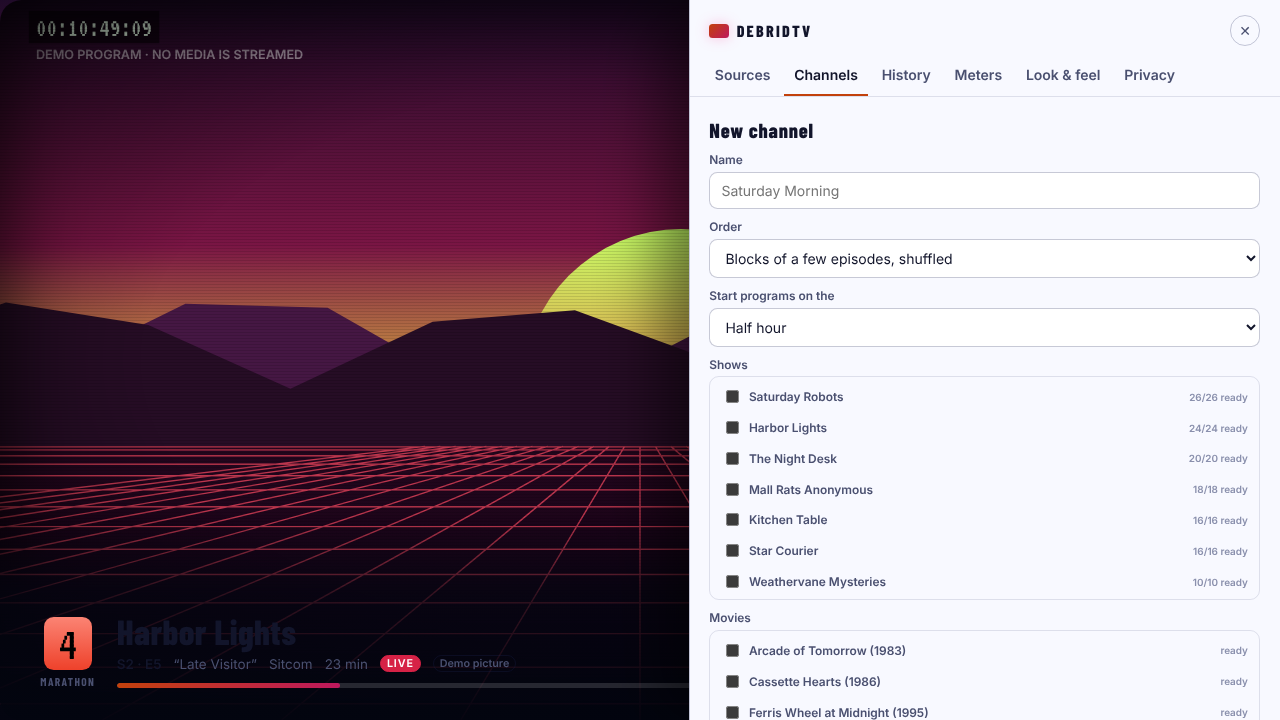
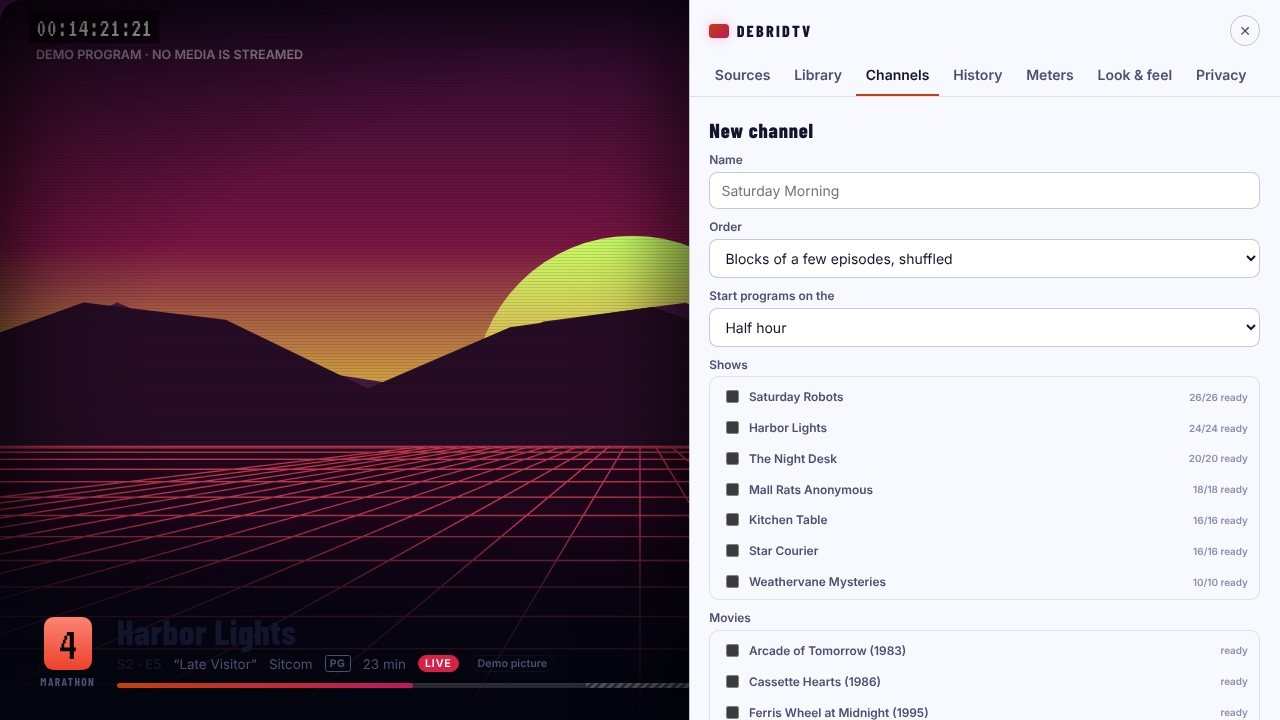
Parity register v0.3: audit round 2 (28/28 on shared + C), re-score and next gaps
Audit media now has a chaptered 8-minute episode so mid-program breaks are
exercised (A17), plus A28 for the picture-shape key.

Claude-Session: https://claude.ai/code/session_01JC4uxRxAjgvmehGqkwUNsi

diff --git a/docs/parity/nostalgiatv.md b/docs/parity/nostalgiatv.md
@@ -1,6 +1,6 @@
 # NostalgiaTV parity register (versioned, per surface)
 
-Register version: 0.2 | NostalgiaTV sources retrieved: 2026-10-10 | DebridTV column audited: 2026-10-11 against shared branch `d68292c` and a trial merge with branches `project-thread-y7lgyq` and `project-thread-uy3380` | Handoff basis: DEBRIDTV_RESEARCH_HANDOFF_2026-10-10.md sections 2.1, 3, 12.
+Register version: 0.3 | NostalgiaTV sources retrieved: 2026-10-10 | DebridTV column audited: 2026-10-11 (round 2) against shared `cffbc0d` merged with C's `project-thread-446sg8` `4a73787` | Handoff basis: DEBRIDTV_RESEARCH_HANDOFF_2026-10-10.md sections 2.1, 3, 12.
 
 NostalgiaTV's Play listing, GitBook user guide and Docker companion README describe different capability sets and different versions. This register is NOT one universal spec. Each cell is evidence about one surface at one version/date. No cell was verified by running the product.
 
@@ -11,7 +11,7 @@ NostalgiaTV's Play listing, GitBook user guide and Docker companion README descr
 - No feature is inferred from screenshots or marketing adjectives; those are P. Short quotes only.
 - Columns: **TV** = Android TV app; **Mobile** = Android phone/tablet app; **Docker** = `purestream711/nostalgiatv-server` web/companion; **Other** = Fire TV/Chromecast/iOS etc., only if documented.
 - **DebridTV status** is scored only from behaviour that a test or the app audit exercised, never from code or a guide existing:
-  - **V** verified: an audit check (`[A01]`…, see [App audit](#app-audit-2026-10-11)) or a named test passes.
+  - **V** verified: an audit check (`[A01]`…, see [App audit](#app-audit)) or a named test passes.
   - **P/V** partly there, and the part that exists is verified. **P** partly there, evidence is a unit test or code only.
   - **C** core only: the clock or library supports it and is unit-tested, but the app doesn't use it.
   - **G** gate: a closed permission gate exists; nothing is built behind it.
@@ -51,39 +51,39 @@ Order follows handoff N-01..N-28; suffix letters are splits; N-29+ are additions
 |---|---|---|---|---|---|---|
 | N-01a | Plex/Jellyfin/Emby servers, multiple at once | D [N01, 2026-09-30; N10 v0.9.12 2026-07-22 says full Jellyfin/Emby] | D [same] | D [N02, 0.10.22] | ? | — not started. Sources are Real-Debrid, TorBox and local folders instead (different source model, by project scope). |
 | N-01b | Local device folders, no server needed | D [N01; N10 v0.9.12] | D [same] | X [N02: local-only libraries stay on Android] / P [N02 "mirror matching"] | ? | **V** local folders become channels after a header scan [A13]. |
-| N-01c | Local folder metadata (Kodi nfo, OMDb, artwork) | D [N10 v0.9.12 OMDb; N01 what's-new Kodi nfo] | D [same] | ? | ? | **P** filename parsing only (`test/parse.test.ts`); no nfo, OMDb or artwork. |
+| N-01c | Local folder metadata (Kodi nfo, OMDb, artwork) | D [N10 v0.9.12 OMDb; N01 what's-new Kodi nfo] | D [same] | ? | ? | **P/V** Kodi movie/episode/tvshow `.nfo` read, nearest `tvshow.nfo` wins, hand-set ratings override (N-01c tests in `test/metadata.test.ts`). No OMDb or artwork (online lookups wait on Zachary). |
 | N-01d | Cross-server dedup (TMDB/IMDb/TVDB, preference rank) | ? | ? | D [N02, N14; 0.10.22] | ? | **P/V** same file in two places airs once [A15]; keyed on parsed name + runtime, not TMDB/IMDb ids; rank local > playable > TorBox > RD (`app/lineup.ts` dedupe). |
 | N-02a | Pre-built presets | D [N01: "85+" ; N11: "70+ Standard Channels", Pro] | D [same] | ? | ? | **P/V** 7 automatic channel rules (Half Hour, Prime Hour, Marathon, Feature, Quarter Hour, decade cinema, one per show) [A01 demo, A14 local]; NTV claims 70-85+ presets. |
 | N-02b | Custom channels | D [N04; N01] | D [N04 steps use mobile app] | D [N02 Channels tab] | ? | **V** builder with show/movie picks, 8 orderings, slot choice; goes on air at #50+ [A09, A18]. |
-| N-03 | Channel number, name, logo | D [N04; N01 renumber/hide/favorite] | D [N04] | P [N02 lists Channels tab, no detail] | ? | **P/V** number + name on bug and OSD [A02]; numbers stable across restart [A11] and hiding [A19]. No logos, renumbering or favorites. |
-| N-04 | Selection by collection/playlist/genre/decade/title | D [N04: Collection, Genre, Decade, Plex Playlist, search] | D [N04] | D [N02: also studios, labels, hand-picked] | ? | **P/V** pick by title [A18]; automatic decade channels [A01]. No genre, collection or playlist (no metadata source). |
-| N-05 | Specials, watched-only, duplicate controls | D [N04; watched-only worded as Plex watched] | D [N04] | ? | ? | **P** duplicates removed automatically [A15]; no specials or watched-only switches. |
-| N-06a | Kid channel flag; R-rated after-hours restriction | D [N04] | D [N04] | D [N02 mature/kid filtering] | ? | — not started. |
+| N-03 | Channel number, name, logo | D [N04; N01 renumber/hide/favorite] | D [N04] | P [N02 lists Channels tab, no detail] | ? | **V** number + name on bug and OSD [A02]; numbers stable across restart, hiding and a channel returning [A11, A19, `library.test` N-03]; rename, renumber (a taken number swaps), favorite and logo stored and editable (`server.test` N-03/N-16, `test/ui` channel editor). |
+| N-04 | Selection by collection/playlist/genre/decade/title | D [N04: Collection, Genre, Decade, Plex Playlist, search] | D [N04] | D [N02: also studios, labels, hand-picked] | ? | **V** network, genre and collection channels from metadata with thresholds (`metadata.test` N-04); decade channels [A01]; pick by title [A18]. No Plex playlists (no Plex source). |
+| N-05 | Specials, watched-only, duplicate controls | D [N04; watched-only worded as Plex watched] | D [N04] | ? | ? | **P/V** duplicates removed [A15, D3]; season-0 specials are a per-channel toggle (`lineup.ts`, editor). No watched-only option. |
+| N-06a | Kid channel flag; R-rated after-hours restriction | D [N04] | D [N04] | D [N02 mature/kid filtering] | ? | **V** kid channels air only ≤PG, unrated stays off; restricted hours keep higher ratings out and nothing straddles the edge (`dayparts.test` N-06a ×2, `server.test` N-06a). |
 | N-06b | PIN-locked restricted channels with scrambling visuals | D [N10 v0.9.12; Pro? ] | D [same] | D [N10 "Docker/web support"] | ? | — not started. |
 | N-07 | Content groups, order/shuffle, EPG description | D [N06; web remote on desktop browser] | P [N06 silent on mobile/TV creation] | D [N02 Groups tab; N10 Groups browse] | ? | — not started. |
 | N-08 | Ordering modes | D 8 modes [N03] | D 8 modes [N03] | D 4 modes only [N02] | ? | **V** all 8 modes unit-tested (F2 in `test/clock.test.ts`) and offered in the builder [A09]. Same intent as NTV, not verified identical. |
-| N-09a | Weights (0-100 sliders), time slots w/ weekday recurrence, restricted hours | D [N13, web UI advanced tab] | P [N13 is web UI] | D [N02 weights, time slots, restricted hours] | ? | — not started (programs align to 15/30/60-min slots, but no weekday time slots, weights or restricted hours). |
-| N-09b | Exclusions | P [N02 lists exclusions for Docker] | ? | D [N02] | ? | **P (branch)** per-file exclude, reversible: `test/server.test.ts` "excluding a file…" on `project-thread-y7lgyq`, not yet on the shared branch. No show/genre exclusions. |
+| N-09a | Weights (0-100 sliders), time slots w/ weekday recurrence, restricted hours | D [N13, web UI advanced tab] | P [N13 is web UI] | D [N02 weights, time slots, restricted hours] | ? | **P/V** weekday time slots that resume next week where they stopped, and restricted hours (`dayparts.test` N-09a, N-06a), set in the channel editor. No weights. |
+| N-09b | Exclusions | P [N02 lists exclusions for Docker] | ? | D [N02] | ? | **P/V** per-file exclude, reversible (`server.test`); excluded files never air (`library.test` B5/E6). No show/genre exclusions. |
 | N-09c | Premieres (recent additions pinned) | D [N13 premiere config] | P | D [N02] | ? | — not started. |
 | N-09d | Recently-scheduled tracking / balance by episode count or duration | D [N13 balance; N02 recent tracking] | P | D [N02] | ? | **P** round-robin gives every show a turn before any repeats (F2 test); no recently-aired tracking. |
 | N-09e | Marathons | D [N04: 3% per check, 4 hours; N13: toggle raises probability] (conflicting wording) | D | D [N02 marathon insertion] | ? | **P/V** a Marathon channel (#4) with tested run lengths (F2) [A01]; no random marathons inside other channels. |
-| N-10 | Per-channel schedule regeneration | D [N10 v0.9.12; N04 Refresh Schedule] | D [same] | D [N02] | ? | **P** core `revise()` keeps the current airing (test C7); the app re-syncs channels when the library changes (`Lineup.sync`, untested in app). No per-channel "refresh schedule" action. |
+| N-10 | Per-channel schedule regeneration | D [N10 v0.9.12; N04 Refresh Schedule] | D [same] | D [N02] | ? | **P/V** schedule changes wait for the current airing to end (C7; `metadata.test` N-06a/N-09a). No per-channel "refresh schedule" action. |
 | N-11a | Built-in themes | D 9 [N01] / 5 [N09] / Modern=Pro [N10] | D [same] | D 8 [N02] | ? | **V** 3 built-ins: Midnight, Cable '92, Daylight [A07]. |
 | N-11b | Custom colors/fonts, theme import/export | D [N09 clone, edit, import/export] | D [N09] | D [N02 browser-editable] | ? | — not started. |
 | N-12 | CRT effects, bezels, tuning sounds/screens | D [N01; N05 Classic CRT bezel option] | D [N10 v0.9.12 CRT/4:3 on mobile] | D CRT/bezel [N02]; tuning sounds ? | ? | **P/V** CRT scanlines, static between channels and tuner sounds are settings [A08]; no bezel. Visual effect checked by screenshot only. |
 | N-13 | Number-key tuning, guide navigation | D [N01 "type the channel number"] | P [no number-key claim; N10 D-pad/controller] | ? (web /watch) | ? | **V** number entry [A02], up/down, last channel [A03], guide arrows [A05, A06]; fast surfing requests media only where it lands [A25] (cost measured in EXP-002/006). |
-| N-14 | Hover tuning, startup choices, D-pad mapping | D [N05: auto-change channel, start on On Demand, swap D-pad] | D [N05; N10 mobile D-pad] | ? | ? | **P/V** starts on the last channel [A10]. No hover-tune, startup choice or D-pad remap. |
-| N-15 | Guide display options (scroll, time indicator, dim ended, 24h clock, idle action) | D [N05] | D [N05] | ? | ? | **P/V** 12 h grid, now line, 24-hour clock option [A05, A06, A08]; past cells dimmed (`guide.js`). Branch `uy3380` adds aired-part shading, picture-in-guide, padding tails (screenshots in project files; not merged). No idle action. |
-| N-16 | Logo overlay mode/position/opacity, rating at start | D [N05] | D [N05] | ? | ? | **P/V** channel bug (number + name) [A02]; no logo, position/opacity or rating card. |
-| N-17a | Force 4:3 / widescreen zoom | D [N05; N01 what's-new 16:9/4:3] | D [N10 mobile 4:3] | ? | ? | — not started. |
+| N-14 | Hover tuning, startup choices, D-pad mapping | D [N05: auto-change channel, start on On Demand, swap D-pad] | D [N05; N10 mobile D-pad] | ? | ? | **P/V** start on last channel [A10] or the guide, and guide idle action (`test/ui` "starts on the guide and closes itself when idle"). No hover-tune or D-pad remap. |
+| N-15 | Guide display options (scroll, time indicator, dim ended, 24h clock, idle action) | D [N05] | D [N05] | ? | ? | **P/V** 12 h grid, now line, 24-hour clock [A05, A06, A08]; aired-part shading, picture-in-guide, padding tails, idle action (`test/ui` guide). No scroll-speed option. |
+| N-16 | Logo overlay mode/position/opacity, rating at start | D [N05] | D [N05] | ? | ? | **P/V** channel bug [A02]; badge, wordmark or inline-image logos (`server.test` N-03/N-16); rating shown in the banner (`ui.js`). No logo position/opacity or rating card at program start. |
+| N-17a | Force 4:3 / widescreen zoom | D [N05; N01 what's-new 16:9/4:3] | D [N10 mobile 4:3] | ? | ? | **V** Z cycles auto, fill, 4:3 and zoom [A28]. |
 | N-17b | Auto sign-off (up to 8 h), guide idle | D [N05] | D [N05] | ? | ? | — not started. |
-| N-18a | Subtitle and audio-track / language options | D [N05] | D [N05] | D [N02 watch UI track selection] | ? | — not started (compat mode takes the first audio track; no subtitles). |
+| N-18a | Subtitle and audio-track / language options | D [N05] | D [N05] | D [N02 watch UI track selection] | ? | **C** the probe reads the track list with languages and flags (`probe.test` N-18a); no audio or subtitle choice in the player yet (A in progress). |
 | N-18b | ExoPlayer vs libmpv, live switch | D [N05; N10 v0.9.12 live switching] | D [same] | X [engine is client-side; ? not stated] | ? | **P (different design)** browser player with one direct → compatibility fallback, never a loop [A20, A24]; no engine choice. |
 | N-19 | Direct play / transcode cap, DTS transcode, passthrough, delivery badges | D [N05; N10 v0.9.12; N01 4K/HDR/DV] | D [same] | ? | ? | **P/V** direct play [A20]; ffmpeg compatibility mode for undecodable audio [A24], labelled in the banner. No transcode cap or passthrough. |
-| N-20 | Playback reporting; 90% watched threshold | D [N05] | D [N05] | ? | ? | **V** seen file time is reported [A22]; watched flips between 85% and 92% seen and shows in the guide [A23]; D8 unit test. Branch `y7lgyq` adds mark/forget/export (tested, not merged). |
-| N-21 | Commercials between/inside programs, bumpers, idents | D [N01; Pro per N11] | D [same] | D [N02, N14] | ? | **P (by design)** no commercials or bumpers: they would fetch media nobody asked for. Break cards are drawn locally (`cards.js`); branch `uy3380` adds Prevue-style rotating breaks, 0 provider calls (not merged). |
+| N-20 | Playback reporting; 90% watched threshold | D [N05] | D [N05] | ? | ? | **V** seen file time is reported [A22]; watched flips between 85% and 92% [A23]; D8; mark/forget/export history (`server.test` history). |
+| N-21 | Commercials between/inside programs, bumpers, idents | D [N01; Pro per N11] | D [same] | D [N02, N14] | ? | **P/V (by design)** no commercials or bumpers (they'd fetch media nobody asked for). Long breaks rotate up next / later / on now elsewhere from the local clock, 0 media requests (`test/ui` station breaks). |
 | N-22a | Break groups/sequences, padding, per-channel pools | D [N01; N02] | D [N01] | D [N02] | ? | **P/V** slot padding becomes a station break [A16]; no break groups or per-channel pools. |
-| N-22b | Mid-break: halfway / chapters | D [N01 "chapter"; N10] | D [same] | D [N02 HALFWAY, CHAPTERS] | ? | **C, app FAIL** clock supports mid-breaks at given points (test C3), but no app channel turns them on and the probe reads no chapters [A17 fails]. |
+| N-22b | Mid-break: halfway / chapters | D [N01 "chapter"; N10] | D [same] | D [N02 HALFWAY, CHAPTERS] | ? | **V** chapters become mid-program breaks where they fit the slot [A17; `server.test` N-22b; MKV and MP4 chapters]. No halfway mode for files without chapters (by design: breaks aren't guessed). |
 | N-22c | Mid-break: silence detection | X [N14: server-side only] | X [same] | D [N02 ffmpeg, Docker only] | ? | — not started. |
 | N-23a | Music/radio ("Tune Choice") | D [N01; N10 new stations] | D [same] | D [N02 + visualizer] | ? | — not started. |
 | N-23b | Weather channels (WeatherStar 4000, Storm) | D [N01 Storm; N10 EAS crawls] | D [same] | D [N02; Storm falls back to offline simulation] | ? | — not started. |
@@ -92,13 +92,13 @@ Order follows handoff N-01..N-28; suffix letters are splits; N-29+ are additions
 | N-24b | M3U / XMLTV / HDHomeRun imports | D [N01; N10 editable sources] | D [same] | D [N02 External Sources, browser refresh] | ? | — not started. |
 | N-24c | Live stream channels from URL (.m3u8) | D [N04] | D [N04] | D [N02] | ? | — not started. |
 | N-25 | Cloud schedule/config sync via user-owned Firebase | D schedule only [N08]; config sync Pro [N10 v0.5.x, N11] | D [same] | ? | ? | — not started. Any cloud path sits behind the closed `cloud-relay` gate. |
-| N-26a | Full-snapshot vs lineup-only config export/import | D [N07] | D [N07] | D [N02 per-profile or whole server; tokens excluded] | ? | **P (branch)** settings export carries choices, never keys (F4 in `test/server.test.ts`, `y7lgyq`, not merged). Lineup-only vs full not distinguished yet. |
+| N-26a | Full-snapshot vs lineup-only config export/import | D [N07] | D [N07] | D [N02 per-profile or whole server; tokens excluded] | ? | **P/V** settings export carries choices, never keys; lineup round-trips without stealing numbers in use (F4 in `server.test`, `library.test`). No lineup-only vs full choice. |
 | N-26b | Local pairing by 4-digit PIN (same Wi-Fi) | D [N07] | D [N07] | ? | ? | — not started (needs the `sharing` gate). |
 | N-26c | Primary/follower (cloud sync) | D [N07] | D [N07] | ? | ? | — not started. |
 | N-26d | Docker pairing code onboarding | D [N10 v0.9.12] | D [same] | D [same] | ? | — not applicable yet (no companion server). |
 | N-27a | Browser UI (watch + configure) | X (TV app itself) / D web remote [N06, N07] | D [N01 web interface] | D [N02 ports 19850 /watch /configure] | ? | **V** watch and configure in one browser page on 127.0.0.1 [A01-A27]. |
 | N-27b | Long-horizon schedule | P 8h default, up to ~1 week "Extended" [N12]; Play says nothing | P [same] | D 30 d default, 24-2160 h [N02] | ? | **V** schedule is computed, so any horizon is free: 12 h guide costs 0 calls [A05], the airing 3 h ahead is identical across restarts [A12], 100 ch × 30 d = 0 calls (EXP-001). |
-| N-27c | Scheduled automatic backups | ? | ? | D [N02 weekly, one-click restore] | ? | — not started (export exists on branch `y7lgyq`; no schedule). |
+| N-27c | Scheduled automatic backups | ? | ? | D [N02 weekly, one-click restore] | ? | — not started (export exists; nothing scheduled). |
 | N-28 | HDHomeRun/IPTV tuner export | P [N01 "Acts as a tuner" via companion] | P | D [N02; unauthenticated by default, disable with HDHR_ENABLED=false] | ? | **G** `tuner-export` gate exists, closed by default (test "gates default closed"); nothing built behind it. |
 | N-29 | Multi-profile (up to 6, kid/adult, PIN, Plex Home link) | D Pro [N11, N01] | D Pro [same] | D [N02] | ? | — not started. |
 | N-30 | On Demand browse, search, voice search, Continue Watching, rent-mode channels | D [N10 v0.9.12; N01] | D [same] | D [N02 On Demand, Continue Watching; rent/voice ?] | ? | — not started. |
@@ -108,18 +108,18 @@ Order follows handoff N-01..N-28; suffix letters are splits; N-29+ are additions
 | N-34 | iOS / Apple TV / Roku / web-only client | ? | ? | P [browser /watch] | iOS: ? | **P/V** any desktop browser; phone-width guide fits [A26]. A phone can't reach it: the server binds 127.0.0.1 and LAN access needs the `sharing` gate. |
 | N-35 | Join programs in progress | D [N01 marketing claim] -> P | P | ? | ? | **V** tuning lands at station time, 0.1-0.15 s drift [A20]; pause 5 s then resume returns to live [A21]; C2/C3 tests. |
 | N-36 | Weather EAS alert crawls | D [N10 v0.9.12] | D | ? | ? | — not started. |
-| N-37 | Stream/delivery status badges, HDR/audio badges | D [N10; N01] | D | ? | ? | **P/V** banner badges: LIVE, station break, watched, refused, direct/compat, provider [A04, A24]. No HDR or audio-format badges. |
+| N-37 | Stream/delivery status badges, HDR/audio badges | D [N10; N01] | D | ? | ? | **P/V** banner badges: LIVE, station break, watched, refused, direct/compat, provider, rating [A04, A24]. No HDR or audio-format badges. |
 | N-38 | Pro entitlement gating (profiles, themes, commercials, cloud sync, 70+ channels, On Demand layout) | D [N11] | D [N11] | ? entitlement for Docker not stated | ? | **N/A** personal app with no paid tier. |
 
 Reading notes: a cell like "D x / P y" means sources disagree on that surface; see Discrepancies. N-32 and N-35 are advertising claims without GitBook mechanics, so downgraded to P. "?" in the Docker column often just means the README is silent; the server may share the feature.
 
-## Scoreboard (2026-10-11)
+## Scoreboard (2026-10-11, round 2)
 
-61 rows. **V 9 · P/V 13 · P 8 · C 1 · G 1 · not started 27 · N/A 2.**
+61 rows. **V 14 · P/V 18 · P 2 · C 1 · G 1 · not started 23 · N/A 2.**
 
-That is: 22 rows have tested behaviour in the app (fully or in part), 8 more exist only as unit-tested core or unmerged branch work, and 27 are not started. The verified core is the "it feels like live TV" loop: joining in progress at station time, pause returns to live, number/last-channel tuning, a free guide of any length, stable numbers, slot breaks, the 90% watched rule, and direct vs compatibility playback. The biggest absent areas are scheduling controls (time slots, weights, restricted hours, kid/PIN), metadata (genres, logos, artwork), subtitles and audio tracks, and every non-library channel type (music, weather, live/M3U).
+32 rows now have tested behaviour in the app, fully or in part (round 1: 22). New since round 1: kid channels and restricted hours, weekday time slots, network/genre/collection channels from `.nfo`, chapter mid-breaks, rename/renumber/favorite/logo, 4:3 and zoom, startup and idle options, Prevue-style breaks. Still absent: subtitles and audio-track choice, auto sign-off, weights/premieres, theme editing, and every non-library channel type (music, weather, live/M3U).
 
-## App audit (2026-10-11)
+## App audit
 
 `docs/parity/audit/app-audit.mjs` starts the real app in a throwaway data folder, generates local test media with ffmpeg (no provider traffic, safe in the cloud), and drives it in Chromium. Results and screenshots land in [`evidence/`](evidence/). Re-run after any merge:
 
@@ -127,61 +127,66 @@ That is: 22 rows have tested behaviour in the app (fully or in part), 8 more exi
 NO_PROXY=127.0.0.1 node docs/parity/audit/app-audit.mjs
 ```
 
-| Run | Commit | Result |
+| Run (2026-10-11) | Tree | Result |
 |---|---|---|
-| Shared branch | `d68292c` | **26/27** ([app-audit.json](evidence/app-audit.json)) |
-| Trial merge of shared + `y7lgyq` (C, to `a982cf3`) + `uy3380` (B, to `0062b72`) | `63a47d5` (local only) | **26/27** ([app-audit-merged.json](evidence/app-audit-merged.json)); merges clean, `npm test` 139/139. An earlier merge (`aa685f5`) failed A27 before C's Library tab landed. |
+| Round 1 | shared `d68292c` | 26/27 (A17 failed) |
+| Round 1 | trial merge with C `y7lgyq` + B `uy3380` | 25/27, then 26/27 once C added the Library tab (A27) |
+| Round 2 | trial merge with C `446sg8` `6ed75dd` + B `uy3380` `f5aca03` | 27/27 audit, but `npm test` 165/166: the channel editor crashed on `logo: null` (reported; fixed by B's `2b17a5c`) |
+| **Round 2** | **shared `cffbc0d` + C `446sg8` `4a73787`** (local merge `68985ad`) | **28/28** ([app-audit-merged.json](evidence/app-audit-merged.json)); `npm test` **169/169** |
 
-| Check | What it proves | Rows | Shared | Merge |
-|---|---|---|---|---|
-| A01 | demo lineup on air with no source | N-02a | ✅ | ✅ |
-| A02 | number keys tune; bug shows number + name | N-13, N-03 | ✅ | ✅ |
-| A03 | channel up, then L returns to the previous channel | N-13 | ✅ | ✅ |
-| A04 | info banner: title, times, what's next, badges | N-15, N-37 | ✅ | ✅ |
-| A05 | browsing the guide 12 h ahead across all rows makes 0 media or link requests | N-15, N-27b | ✅ | ✅ |
-| A06 | a guide row per channel, plus a now line | N-15 | ✅ | ✅ |
-| A07 | three themes apply | N-11a | ✅ | ✅ |
-| A08 | CRT, static, tuner sounds, 24-hour clock are settings | N-12, N-15 | ✅ | ✅ |
-| A09 | builder offers all 8 orderings | N-08, N-02b | ✅ | ✅ |
-| A10 | reload starts on the last channel | N-14 | ✅ | ✅ |
-| A11 | channel numbers survive a restart | N-03 | ✅ | ✅ |
-| A12 | the airing 3 h ahead is identical across a restart | N-27b, N-35 | ✅ | ✅ |
-| A13 | local folders become channels after a header scan | N-01b | ✅ | ✅ |
-| A14 | show channel at #10+, Quarter Hour at #6 | N-03 | ✅ | ✅ |
-| A15 | the same episode in two folders airs once | N-01d, N-05 | ✅ | ✅ |
-| A16 | slot padding: programs start on the quarter hour, the rest is a break | N-22a | ✅ | ✅ |
-| A17 | mid-program breaks appear on some channel | N-22b | ❌ | ❌ |
-| A18 | custom channels go on air at #50+ | N-02b, N-03 | ✅ | ✅ |
-| A19 | hiding a channel keeps every other number | N-03 | ✅ | ✅ |
-| A20 | tuning in lands at station time (direct play; drift ~0.1 s) | N-35 | ✅ | ✅ |
-| A21 | pause 5 s inside a program, resume is back at live | N-35 | ✅ | ✅ |
-| A22 | real playback is reported as seen time | N-20 | ✅ | ✅ |
-| A23 | watched flips between 85% and 92% seen, and shows in the guide | N-20 | ✅ | ✅ |
-| A24 | an AC-3 file plays through compatibility mode, labelled in the banner | N-19, N-37 | ✅ | ✅ |
-| A25 | six fast presses request media only for the landing channel | N-13 | ✅ | ✅ |
-| A26 | phone-width guide has no horizontal overflow | N-34 | ✅ | ✅ |
-| A27 | every settings tab renders | — | ✅ | ✅ (failed at `aa685f5`, fixed by C's `e8d444c`) |
+| Check | What it proves | Rows | Latest |
+|---|---|---|---|
+| A01 | demo lineup on air with no source | N-02a | ✅ |
+| A02 | number keys tune; bug shows number + name | N-13, N-03 | ✅ |
+| A03 | channel up, then L returns to the previous channel | N-13 | ✅ |
+| A04 | info banner: title, times, what's next, badges | N-15, N-37 | ✅ |
+| A05 | browsing the guide 12 h ahead across all rows makes 0 media or link requests | N-15, N-27b | ✅ |
+| A06 | a guide row per channel, plus a now line | N-15 | ✅ |
+| A07 | three themes apply | N-11a | ✅ |
+| A08 | CRT, static, tuner sounds, 24-hour clock are settings | N-12, N-15 | ✅ |
+| A09 | builder offers all 8 orderings | N-08, N-02b | ✅ |
+| A10 | reload starts on the last channel | N-14 | ✅ |
+| A11 | channel numbers survive a restart | N-03 | ✅ |
+| A12 | the airing 3 h ahead is identical across a restart | N-27b, N-35 | ✅ |
+| A13 | local folders become channels after a header scan | N-01b | ✅ |
+| A14 | show channel at #10+, Quarter Hour at #6 | N-03 | ✅ |
+| A15 | the same episode in two folders airs once | N-01d, N-05 | ✅ |
+| A16 | slot padding: programs start on the quarter hour, the rest is a break | N-22a | ✅ |
+| A17 | a file with a chapter at 4:00 gets a mid-program break | N-22b | ✅ |
+| A18 | custom channels go on air at #50+ | N-02b, N-03 | ✅ |
+| A19 | hiding a channel keeps every other number | N-03 | ✅ |
+| A20 | tuning in lands at station time (direct play; drift ~0.1 s) | N-35 | ✅ |
+| A21 | pause 5 s inside a program, resume is back at live | N-35 | ✅ |
+| A22 | real playback is reported as seen time | N-20 | ✅ |
+| A23 | watched flips between 85% and 92% seen, and shows in the guide | N-20 | ✅ |
+| A24 | an AC-3 file plays through compatibility mode, labelled in the banner | N-19, N-37 | ✅ |
+| A25 | six fast presses request media only for the landing channel | N-13 | ✅ |
+| A26 | phone-width guide has no horizontal overflow | N-34 | ✅ |
+| A27 | every settings tab renders | — | ✅ |
+| A28 | Z cycles the picture shape, including 4:3 | N-17a | ✅ |
 
-Limits of this audit: local files only (the app can't yet be pointed at the mock providers from the audit; C's `createApp` tests cover provider paths), Chromium without H.264, and A25 landed on a channel in a break, so it shows no stray streams rather than the cost of the final tune (EXP-002/006 measure that). Visual quality is judged from screenshots, not asserted.
+Limits: local files only (C's `createApp` tests in `test/server.test.ts` cover the provider paths against the mock providers), Chromium without H.264, and A25 may land on a channel in a break, so it shows no stray streams rather than the cost of the final tune (EXP-002/006 measure that). Rows also cite unit and browser tests by name (`test/ui/guide.test.ts`, `test/dayparts.test.ts`, `test/metadata.test.ts`, `test/server.test.ts`, `test/library.test.ts`).
 
-## Gaps, ranked (2026-10-11)
+## Gaps, ranked (2026-10-11, round 2)
 
-Ranked by what a viewer would notice first, then by cost/safety. Owner = workstream from `docs/HANDOFF.md` §7.
+Items that wait on Zachary are listed separately. Owner = workstream from `docs/HANDOFF.md` §7.
 
 | # | Gap | Rows | Owner | Why it matters |
 |---|---|---|---|---|
-| 1 | ~~Library tab button with no renderer after merging B + C~~ fixed on C's branch (`e8d444c`), A27 passes on the merge | — | C | Resolved 2026-10-11. |
-| 2 | Auto sign-off / "are you still watching" | N-17b | A | A viewer who falls asleep streams all night from RD/TorBox: real bytes and Remote Traffic risk. Zero-cost to build. |
-| 3 | Mid-program breaks never happen in the app | N-22b | C (rules, chapter read in probe) + B (card) | Clock already supports them (C3); NTV's signature feel; costs 0 media. |
-| 4 | Subtitles and audio-track choice | N-18a | A (+ C for track list from probe) | Foreign/anime libraries unwatchable without them; compat mode always takes track 1. |
-| 5 | No browser tests in `npm test` | — | A/B | The audit script is the only end-to-end evidence for the player and guide; regressions won't show in CI. Fold A20/A21/A25 into tests. |
-| 6 | Scheduling controls: weekday time slots, restricted hours, kid flag | N-09a, N-06a | C (lineup/clock) + B (UI) | Most-used NTV customisation after custom channels. |
-| 7 | Channel logos, renumbering, favorites | N-03, N-16 | C (lineup) + B (UI) | Every channel looks alike; numbers can't be moved. |
-| 8 | Genre/collection channels need metadata | N-04, N-01c | C | Local `.nfo` reading is free; online lookups (TMDB/OMDb) would be new outbound traffic and need a decision. |
-| 9 | 4:3 / zoom display modes | N-17a | A/B | Cheap and very on-theme for old shows. |
-| 10 | Startup choice and idle guide action | N-14, N-15 | B | Polish. |
-| 11 | Phones/TVs can't reach the app | N-34, N-26b | needs Zachary | Server is 127.0.0.1-only; LAN access is the `sharing` gate. |
-| 12 | Live/M3U, music, weather, trailers channels | N-23*, N-24* | later | Out of the library-first scope for now. |
+| 1 | Auto sign-off / "still watching?" | N-17b | A | A sleeping viewer streams from RD/TorBox all night. Zero-cost to build. |
+| 2 | Audio and subtitle track choice | N-18a | A | The probe already lists tracks with languages (C); the player still takes track 1 and shows no subtitles. |
+| 3 | Playback checks in `npm test` | — | A | B's `test/ui` covers guide/breaks/editor; join-at-live, pause→live and surf cost (A20/A21/A25) are only in the audit. |
+| 4 | Weights, premieres, recently-aired balance | N-09a/c/d | C | Next most-used NTV scheduling controls after slots and restricted hours. |
+| 5 | Random marathons inside mix channels | N-09e | C | NTV's "marathon chance" feel; today only the dedicated Marathon channel does runs. |
+| 6 | Watched-only / unwatched-first option | N-05 | C | History exists; channels don't use it. |
+| 7 | Show/genre-level exclusions | N-09b | C (+ B UI) | Only single files can be excluded. |
+| 8 | Rating card at program start; logo position/opacity | N-16 | B | Small, very on-theme. |
+| 9 | Theme editing, import/export | N-11b | B | Only 3 fixed themes. |
+| 10 | HDR / audio-format badges | N-37 | B (+ C data) | Probe knows codecs; banner doesn't show them. |
+| 11 | Per-channel "refresh schedule" | N-10 | C + B | Users can't reshuffle a channel on demand. |
+| 12 | Scheduled backups | N-27c | C | Export exists; nothing runs it. |
+
+Waiting on Zachary: LAN/phone access (`sharing` gate, N-34, N-26b), online metadata and artwork (N-01c), cloud sync (N-25), tuner export (N-28).
 
 ## Discrepancies
 

diff --git a/docs/experiments/LOG.md b/docs/experiments/LOG.md
@@ -305,3 +305,19 @@ sign-off (a sleeping viewer streams all night), and mid-program breaks.
 
 **Next.** Re-run the audit after each merge; add checks as B and C ship (Prevue breaks,
 exclusions, export). Fold the playback checks (A20/A21/A25) into `npm test`.
+
+### PARITY-002 — Audit round 2 (2026-10-11)
+
+**Change to the audit.** Episode 8 of the test show now runs 8 min with a chapter at 4:00.
+The first try put chapters into 90 s files, and A17 still failed. The cause was the
+audit, not the app: breaks are never placed in a program's first or last 3 min
+(`breakpoints()`), so a 90 s file can't hold one. Added A28 (Z cycles picture shape).
+
+**Result.** Shared `cffbc0d` + C `446sg8` `4a73787`: **28/28**, `npm test` 169/169. An earlier
+trial merge (C `6ed75dd` + B `f5aca03`) caught an integration crash: C's settings API
+returns `logo: null`, B's editor read `null.kind`, so the channel editor would not open
+for any channel without a logo. Reported, and B fixed it in `2b17a5c`.
+
+**Register v0.3.** 61 rows: V 14, P/V 18, P 2, C 1, G 1, not started 23, N/A 2 (round 1:
+V 9, P/V 13). Top remaining gaps: auto sign-off, audio/subtitle track choice, and playback
+checks in `npm test` (A); weights/premieres, random marathons, watched-only (C).
